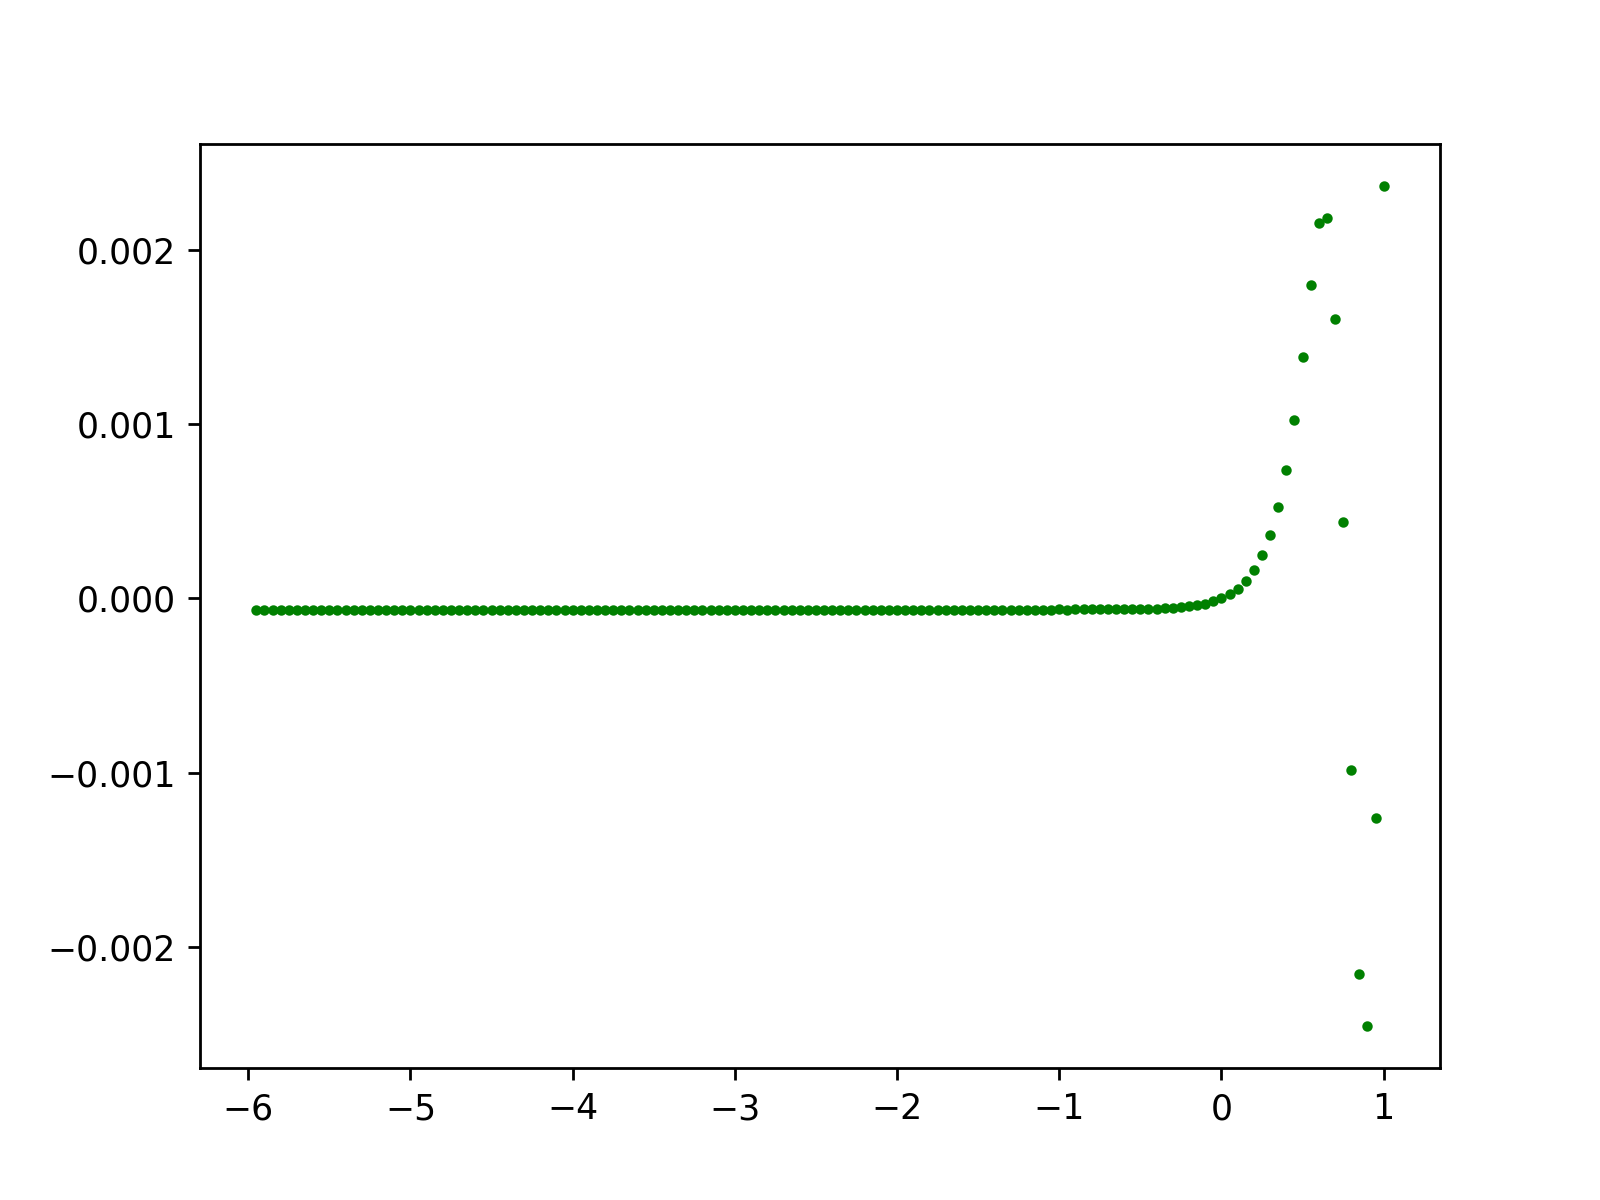
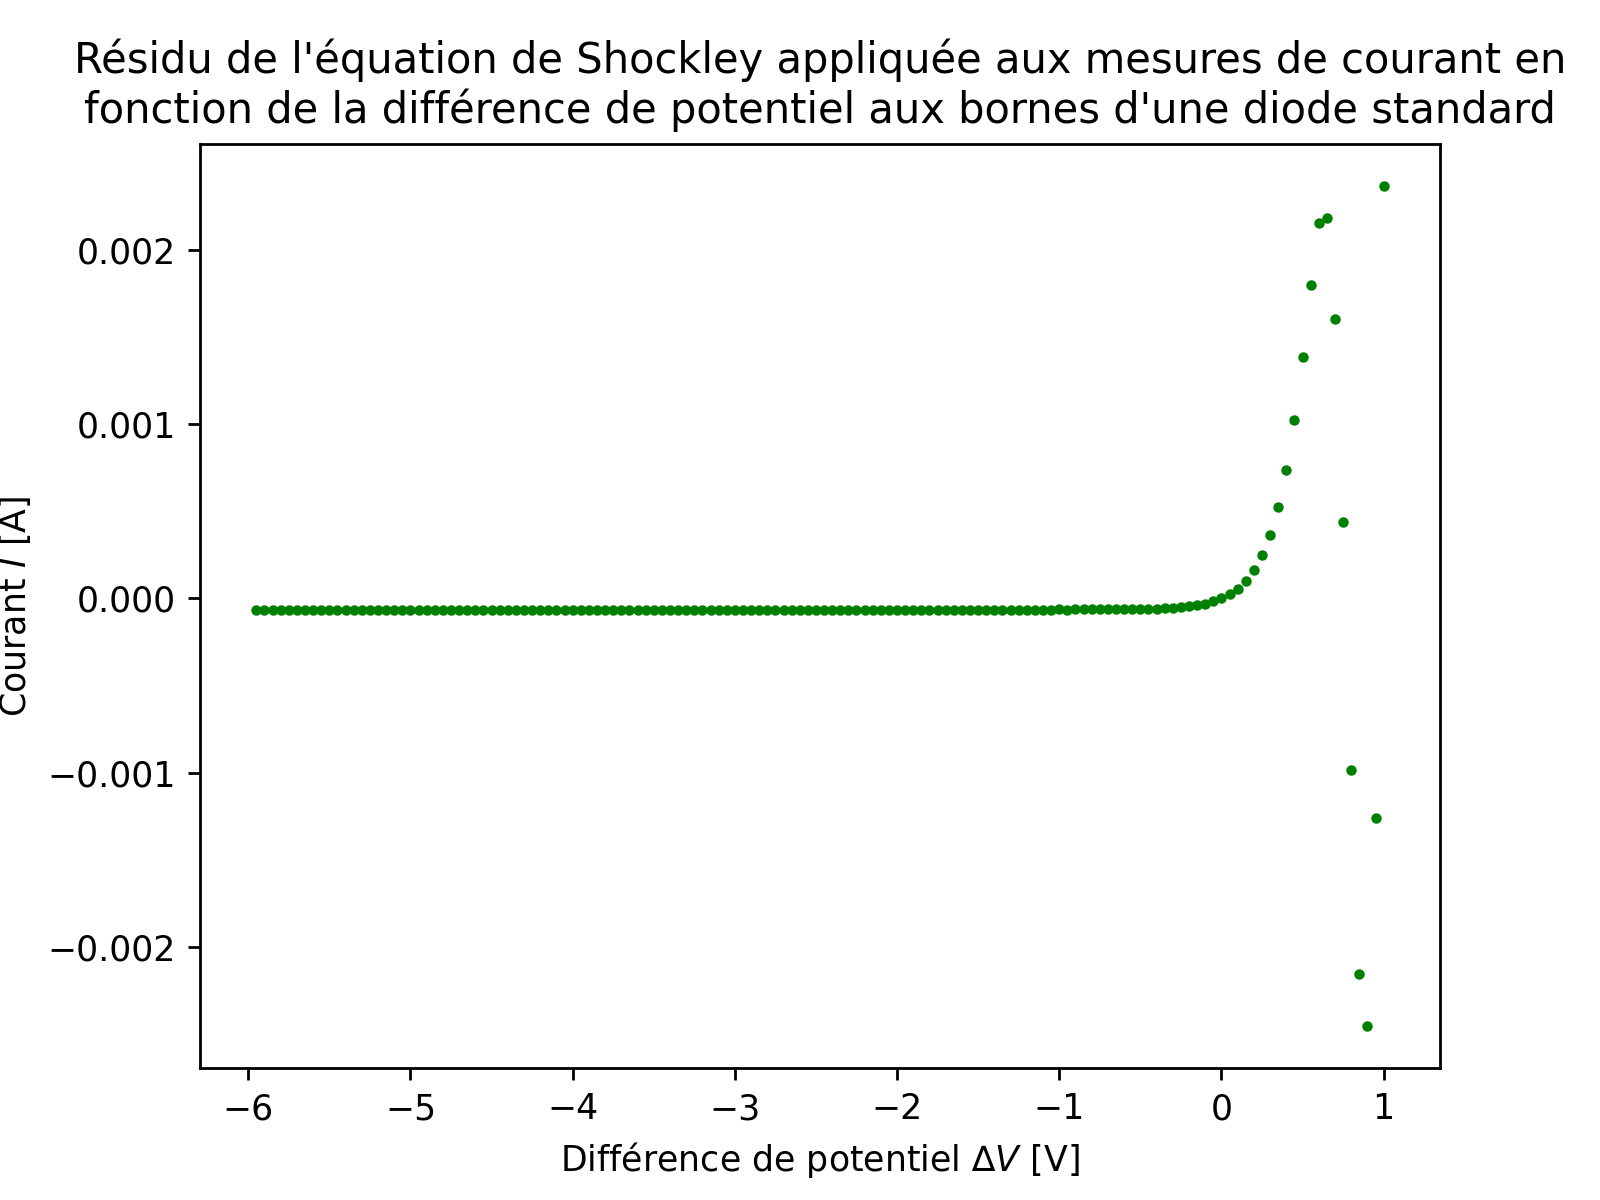
final lab_3 commit

Changed region(s): [[0.0312, 0.0308, 0.9688, 0.1233], [0.3438, 0.9558, 0.6875, 0.9867], [0.0, 0.4008, 0.0312, 0.5858]]

diff --git a/lab_3/graph_maker.py b/lab_3/graph_maker.py
@@ -175,10 +175,10 @@ def make_figure_for_dvdi(calc_uncertainty: bool=False):
         plt.ylabel(params["ylabel"])
     else:
         plot_graph(plotted_array, params)
-        
-    save_figure("lab_3/graphs/dynamic_resistance_new.png", show=True)
 
-make_figure_for_dvdi()
+    save_figure("lab_3/graphs/dynamic_resistance.png", show=True)
+
+# make_figure_for_dvdi()
 
 def make_figure_for_fitted_diode():
     array = np.load("lab_3/data/concatenated_part_4.npy")
@@ -202,7 +202,9 @@ def make_figure_for_fitted_diode():
     save_figure("lab_3/graphs/shockley.png", show=True)
 
     residue = shockley_equation(array[:,0], i_0, v_0) - array[:,1]
-    plot_graph(np.stack((array[:,0], residue), axis=1))
+    params["title"] = ("Résidu de l'équation de Shockley appliquée aux mesures de courant en\nfonction de la " + 
+                       "différence de potentiel aux bornes d'une diode standard")
+    plot_graph(np.stack((array[:,0], residue), axis=1), params)
     print(f"residue stddev: {np.std(residue)}")
     print(f"residue mean  : {np.mean(residue)}")
     save_figure("lab_3/graphs/shockley_residue.png", show=True)
